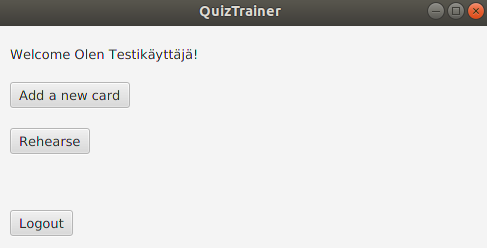
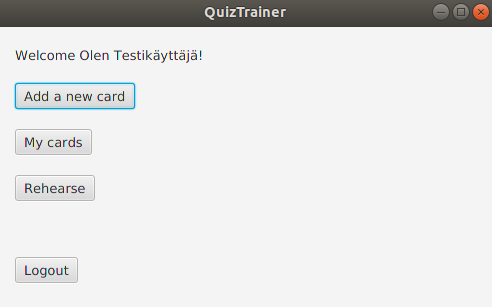
Update related to My cards listing

Changed region(s): [[0.0, 0.1411, 0.4312, 0.6774], [0.0, 0.0, 1.0, 0.1129], [0.0, 0.8185, 0.154, 0.9597]]

diff --git a/QuizTrainer/src/main/java/quiztrainer/ui/UserInterface.java b/QuizTrainer/src/main/java/quiztrainer/ui/UserInterface.java
@@ -256,14 +256,15 @@ public class UserInterface extends Application {
         VBox quizCardListingPane = new VBox(20);
         quizCardListingPane.setPadding(new Insets(20));
         quizCardListingPane.setPadding(new Insets(20));
-        Button returnFromListingButton = new Button("<- Return to menu");        
+        Button returnFromListingButton = new Button("<- Return to menu");  
+        Label listLabel = new Label("Listing all your QuizCards:");
         listingScene = new Scene(quizCardListingPane, 500, 500);
         
         quizCardNodes = new VBox(10);
         ScrollPane quizCardScrollPane = new ScrollPane();
         quizCardScrollPane.setContent(quizCardNodes);
         
-        quizCardListingPane.getChildren().addAll(quizCardScrollPane, returnFromListingButton);
+        quizCardListingPane.getChildren().addAll(listLabel, quizCardScrollPane, returnFromListingButton);
         
         returnFromListingButton.setOnAction(e-> {
             primaryStage.setScene(mainScene);

diff --git a/documentation/user_instructions.md b/documentation/user_instructions.md
@@ -19,7 +19,7 @@ Creating a new account is straightforward, fill in your username and name on the
 ![Signup scene](images/signup_scene.png "Signup scene")
 
 ### Login
-Now that you have an account, you can login by providing your username to the username field and pressing _Login_ button.
+Now that you have an account, you can login from by providing your username to the username field and pressing _Login_ button.
 
 ![Login scene](images/login_scene.png "Login scene")
 
@@ -27,6 +27,7 @@ Now that you have an account, you can login by providing your username to the us
 
 After login, you will be forwarded to the main scene. You have the following options:
 - If you wish to create a new QuizCard, press _Add a new card_ button.
+- If you wish to list all your made QuizCards, press _My cards_ button.
 - If you wish to rehearse made QuizCards, press _Rehearse_ button.
 
 ![Main scene](images/main_scene.png "Main scene")
@@ -35,6 +36,11 @@ After login, you will be forwarded to the main scene. You have the following opt
 When adding a new card, you will be asked to type the question, right answer and three false but probable answers. When you have filled the required forms, you can create the card by pressing _Add a new question_ button.
 
 ![Adding a new card scene](images/addnewcard_scene.png "Adding a new card scene")
+
+### My cards
+You will be provided a list of QuizCards you have made with question and right answer.
+
+![My cards scene](images/my_cards_scene.png "My cards scene")
 
 ### Rehearsing QuizCards
 
